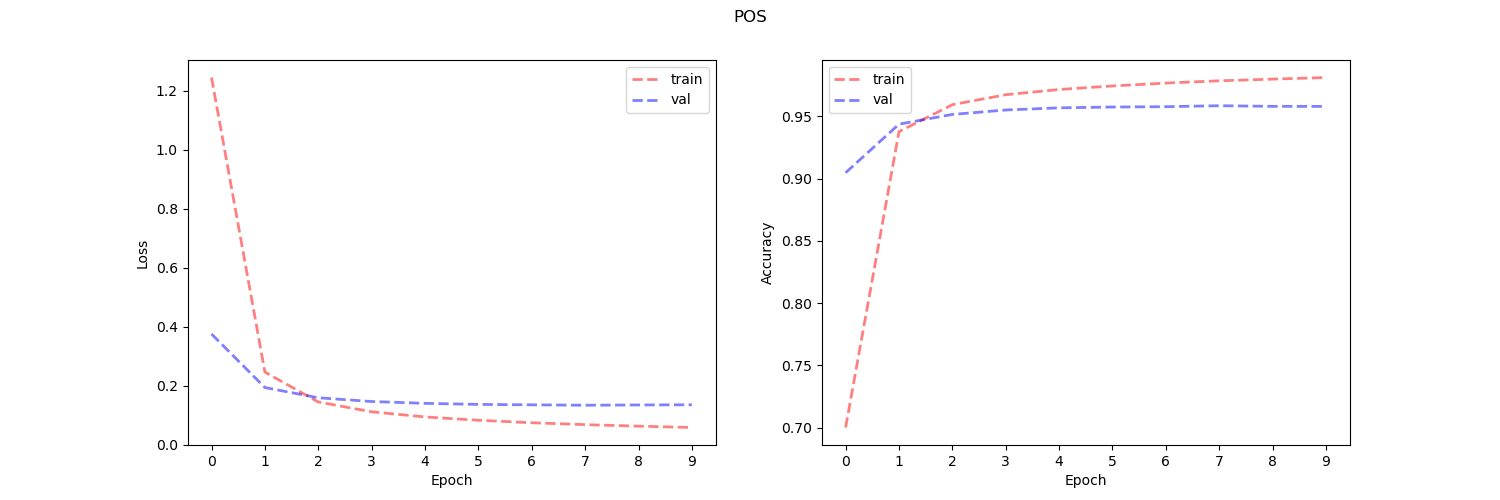
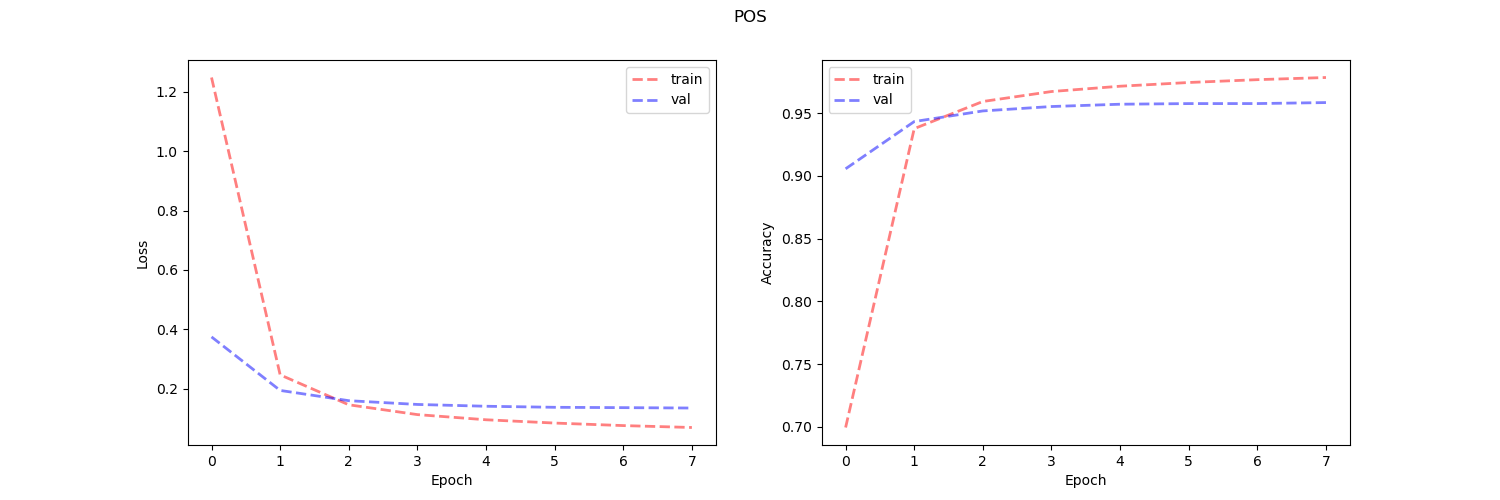
trying to do part 5

diff --git a/tagger1.py b/tagger1.py
@@ -27,17 +27,33 @@ class Tagging_Dataset(Dataset):
 
 
 class tagger(nn.Module):
-    def __init__(self, vocab, embedding_dim, hidden_layer, target_size, dropout_p, pre_trained_embeddings=None,
-                 prefix_vocab=None, suffix_vocab=None, WINDOW_SIZE=5):
+    def __init__(self, vocab, embedding_dim, hidden_layer, target_size, dropout_p, 
+                 pre_trained_embeddings=None, prefix_vocab=None, suffix_vocab=None, 
+                 cnn_vocab=None, char_embedding_dim=30, cnn_window_size=3, cnn_padding_size=2, 
+                 dropout_p_cnn=0.5, WINDOW_SIZE=5):
         super().__init__()
         self.embedding_dim = embedding_dim
         self.vocab = vocab
         self.prefix_vocab = prefix_vocab
         self.suffix_vocab = suffix_vocab
+        self.cnn_vocab = cnn_vocab
         self.word_embeddings = nn.Embedding(len(self.vocab), embedding_dim)
         if prefix_vocab:
             self.prefix_embeddings = nn.Embedding(len(self.prefix_vocab), embedding_dim)
             self.suffix_embeddings = nn.Embedding(len(self.suffix_vocab), embedding_dim)
+        elif cnn_vocab:
+            self.char_embeddings = nn.Embedding(len(self.cnn_vocab), char_embedding_dim, padding_idx=0)
+            self.cnn_layer = nn.Conv2d(in_channels=1, out_channels=max(self.cnn_vocab.stoi.keys(), key=len), 
+                                       kernel_size=(cnn_window_size,char_embedding_dim), 
+                                       padding=(cnn_padding_size,0))
+            conv2d_layer_shape = get_conv2d_layer_shape(self.cnn_layer, (max(self.cnn_vocab.stoi.keys(), key=len), char_embedding_dim))
+            self.char_maxpool_layer = torch.nn.MaxPool2d(kernel_size=(conv2d_layer_shape[0], 1))
+            self.dropout_cnn_layer = torch.nn.Dropout(p=dropout_p_cnn)
+            self.fc_input_dim = (self.WINDOW_SIZE *
+                                 (self.embedding_dim +
+                                  self.cnn_char_num_filters *
+                                  self.maxpool2d_layer_shape[2] *
+                                  self.maxpool2d_layer_shape[3]))
         self.fc1 = nn.Linear(embedding_dim * WINDOW_SIZE, hidden_layer)
         self.fc2 = nn.Linear(hidden_layer, target_size)
         self.activation = nn.Tanh()
@@ -48,12 +64,13 @@ class tagger(nn.Module):
         torch.manual_seed(42)
         if pre_trained_embeddings is not None:
             self.word_embeddings.weight.data.copy_(torch.from_numpy(pre_trained_embeddings))
-        elif prefix_vocab:
-            nn.init.xavier_uniform_(self.prefix_embeddings.weight)
-            nn.init.xavier_uniform_(self.suffix_embeddings.weight)
-            nn.init.xavier_uniform_(self.word_embeddings.weight)
         else:
             nn.init.xavier_uniform_(self.word_embeddings.weight)
+        if prefix_vocab:
+            nn.init.xavier_uniform_(self.prefix_embeddings.weight)
+            nn.init.xavier_uniform_(self.suffix_embeddings.weight)
+        elif cnn_vocab:
+            nn.init.kaiming_uniform_(self.char_embeddings) # check in/out
         nn.init.xavier_uniform_(self.fc1.weight, gain=torch.nn.init.calculate_gain('tanh'))
         nn.init.constant_(self.fc1.bias, 0)
         nn.init.xavier_uniform_(self.fc2.weight)
@@ -66,6 +83,8 @@ class tagger(nn.Module):
             word_emb = self.word_embeddings(windows).view(-1, self.embedding_dim * self.WINDOW_SIZE)
             suffix_emb = self.suffix_embeddings(suffix_window).view(-1, self.embedding_dim * self.WINDOW_SIZE)
             x = prefix_emb + word_emb + suffix_emb
+        elif self.cnn_vocab:
+            x = self.char_embeddings(windows).view(-1, self.embedding_dim * self.WINDOW_SIZE)
         else:
             x = self.word_embeddings(windows).view(-1, self.embedding_dim * self.WINDOW_SIZE)
         x = self.fc1(x)
@@ -106,7 +125,7 @@ def accuracy(pred, tags, mission):
     return corrects, total
 
 
-def epoch_train(model, optimizer, criterion, train_loader, val_loader, mission):
+def epoch_train(model, optimizer, criterion, train_loader, val_loader, mission, grad_clip=0):
     running_loss = 0
     running_corrects, running_total = 0, 0
     model.train()
@@ -117,6 +136,8 @@ def epoch_train(model, optimizer, criterion, train_loader, val_loader, mission):
         running_loss += loss.item()
         loss.backward()
         optimizer.step()
+        if grad_clip > 0:
+            torch.nn.utils.clip_grad_norm_(model.parameters(), max_norm=grad_clip)
 
         pred = torch.argmax(output, 1)
         batch_corrects, batch_total = accuracy(pred, tags, mission)
@@ -188,7 +209,7 @@ def save_test_file(test_data, predictions_labels, save_path=None, seperator=' ')
         f.write("\n")
         
 
-def train(model, optimizer, criterion, nepochs, train_loader, val_loader, mission, return_best_epoch=True, optimize='accuracy'):
+def train(model, optimizer, criterion, nepochs, train_loader, val_loader, mission, scheduler=None, grad_clip=0, return_best_epoch=True, optimize='accuracy'):
     '''Train the model epoch by epoch.
 
     Parameters
@@ -219,7 +240,7 @@ def train(model, optimizer, criterion, nepochs, train_loader, val_loader, missio
     best_val_loss = 9999999
     best_val_accuracy = -9999999
     for e in range(nepochs):
-        loss, acc = epoch_train(model, optimizer, criterion, train_loader, val_loader, mission)
+        loss, acc = epoch_train(model, optimizer, criterion, train_loader, val_loader, mission, grad_clip)
         val_loss, val_acc = evaluate(model, criterion, val_loader, mission)
         train_losses += [loss]
         val_losses += [val_loss]
@@ -235,6 +256,8 @@ def train(model, optimizer, criterion, nepochs, train_loader, val_loader, missio
                 if val_loss < best_val_loss:
                     best_val_loss = val_loss
                     best_model = model
+        if scheduler:
+            scheduler.step()
 
         print("Epoch: {}/{}.. ".format(e + 1, nepochs),
               "Training Loss: {:.3f}.. ".format(train_losses[-1]),
@@ -247,7 +270,7 @@ def train(model, optimizer, criterion, nepochs, train_loader, val_loader, missio
         return train_losses, val_losses, train_accs, val_accs
 
 
-def parameters_search(params_dict, n_eopchs, train_dataset, dev_dataset, vocab, return_best_epoch=True, optimize='accuracy', mission='NER', pre_trained_emb=None, pre_vocab=None, suf_vocab=None):
+def parameters_search(params_dict, n_eopchs, train_dataset, dev_dataset, vocab, return_best_epoch=True, optimize='accuracy', mission='NER', pre_trained_emb=None, pre_vocab=None, suf_vocab=None, cnn_vocab=None):
     '''Exhaustive search over specified parameter values
 
     Parameters
@@ -296,12 +319,21 @@ def parameters_search(params_dict, n_eopchs, train_dataset, dev_dataset, vocab, 
         dev_data_loader = DataLoader(dev_dataset,
                                 batch_size=config['batch_size'], shuffle=True)
         if mission == 'NER':
-            model = tagger(vocab, 50, config['hidden_layer'], len(vocab_labels), config['dropout_p'], pre_trained_emb, prefix_vocab=pre_vocab, suffix_vocab=suf_vocab)
+            model = tagger(vocab, 50, config['hidden_layer'], len(vocab_labels), config['dropout_p'], pre_trained_emb, prefix_vocab=pre_vocab, suffix_vocab=suf_vocab, cnn_vocab=cnn_vocab)
         else:
-            model = tagger(vocab_pos, 50, config['hidden_layer'], len(vocab_labels_pos), config['dropout_p'], pre_trained_emb, prefix_vocab=pre_vocab, suffix_vocab=suf_vocab)
+            model = tagger(vocab_pos, 50, config['hidden_layer'], len(vocab_labels_pos), config['dropout_p'], pre_trained_emb, prefix_vocab=pre_vocab, suffix_vocab=suf_vocab, cnn_vocab=cnn_vocab)
         criterion = nn.CrossEntropyLoss()
-        optimizer = optim.Adam(model.parameters(), lr=config['lr'])
-        train_losses, val_losses, train_accuracy, val_accuracy, best_config_model = train(model, optimizer, criterion, n_eopchs, train_data_loader, dev_data_loader, mission)
+        if cnn_vocab:
+            optimizer = optim.SGD(model.parameters(), lr=config['lr'], momentum=0.9)
+            initial_learning_rate = 0.015 if mission=='NER' else 0.01
+            lambda_lr = lambda epoch: initial_learning_rate/(1+0.05 *epoch)
+            lr_scheduler = torch.optim.lr_scheduler.LambdaLR(optimizer, lr_lambda=lambda_lr)
+            grad_clip = 5
+        else:
+            lr_scheduler = None
+            grad_clip = 0
+            optimizer = optim.Adam(model.parameters(), lr=config['lr'])
+        train_losses, val_losses, train_accuracy, val_accuracy, best_config_model = train(model, optimizer, criterion, n_eopchs, train_data_loader, dev_data_loader, mission, lr_scheduler, grad_clip=grad_clip)
         if optimize=='accuracy':
             best_acc_eopch = np.argmax(val_accuracy)
             if val_accuracy[best_acc_eopch] > best_config_val_accuracy:
@@ -330,12 +362,15 @@ def parameters_search(params_dict, n_eopchs, train_dataset, dev_dataset, vocab, 
 
 print("___________________________________NER__________________________________________________")
 parser = argparse.ArgumentParser(description="NLP tagging task")
+group = parser.add_mutually_exclusive_group()
 parser.add_argument("-p", "--pretrained", action="store_true")
-parser.add_argument("-s", "--subword", action="store_true")
+group.add_argument("-s", "--subword", action="store_true")
+group.add_argument("-c", "--cnn", action="store_true")
 args = parser.parse_args()
 pre_embedding = None
 pre_vocab = None
 suf_vocab = None
+char_vocab = None
 
 train_data = read_data('ner/train', '\t', lower=args.pretrained)
 dev_data = read_data('ner/dev', '\t', lower=args.pretrained)
@@ -348,6 +383,10 @@ if args.pretrained:
 if args.subword:
     print('using subword embedding\n')
     pre_vocab, suf_vocab = create_pre_suf_vocabs(vocab)
+
+if args.cnn:
+    print('using character embedding\n')
+    char_vocab = create_cnn_vocabs(vocab)
 
 
 train_dataset = Tagging_Dataset(data_to_window(vocab, vocab_labels, train_data))
@@ -363,7 +402,7 @@ params_dict = {
 # {'hidden_layer': 130, 'dropout_p': 0.3, 'batch_size': 128, 'lr': 0.0001, 'nepochs': 6}
 best_params_dict = {'hidden_layer': [130], 'dropout_p': [0.3], 'batch_size': [128], 'lr': [1e-4]}
 print('searching parameters...\n')
-best_tagger = parameters_search(best_params_dict, 6, train_dataset, dev_dataset, vocab, mission='NER', pre_trained_emb=pre_embedding, pre_vocab=pre_vocab, suf_vocab=suf_vocab)
+best_tagger = parameters_search(best_params_dict, 8, train_dataset, dev_dataset, vocab, mission='NER', pre_trained_emb=pre_embedding, pre_vocab=pre_vocab, suf_vocab=suf_vocab, cnn_vocab=char_vocab)
 plot_results(best_tagger['train_losses'], best_tagger['val_losses'],\
     best_tagger['train_accuracy'], best_tagger['val_accuracy'], main_title=f'NER_P-{args.pretrained}_S-{args.subword}')
 print(f'best parameters:\n{best_tagger["best_config"]}')
@@ -379,14 +418,15 @@ print("___________________________________POS___________________________________
 train_data_pos = read_data('pos/train', ' ', lower=args.pretrained)
 dev_data_pos = read_data('pos/dev', ' ', lower=args.pretrained)
 vocab_pos, vocab_labels_pos = create_vocabs(train_data_pos)
-
+pre_vocab_pos = None
+suf_vocab_pos = None
 if args.pretrained:
     print('using pre-trained embedding\n')
     vocab_pos, pre_embedding = use_pretrained('vocab.txt', 'wordVectors.txt')
 
 if args.subword:
     print('using subword embedding\n')
-    pre_vocab_pos, suf_vocab_pos = create_pre_suf_vocabs(train_data_pos)
+    pre_vocab_pos, suf_vocab_pos = create_pre_suf_vocabs(vocab_pos)
 
 train_dataset_pos = Tagging_Dataset(data_to_window(vocab_pos, vocab_labels_pos, train_data_pos))
 dev_dataset_pos = Tagging_Dataset(data_to_window(vocab_pos, vocab_labels_pos, dev_data_pos))
@@ -403,7 +443,7 @@ best_pos_params_dict = {'hidden_layer': [90], 'dropout_p': [0.2], 'batch_size': 
 print('searching parameters...\n')
 best_tagger_pos = parameters_search(best_pos_params_dict, 8, train_dataset_pos, dev_dataset_pos, vocab_pos, mission='POS', pre_trained_emb=pre_embedding, pre_vocab=pre_vocab_pos, suf_vocab=suf_vocab_pos)
 plot_results(best_tagger_pos['train_losses'], best_tagger_pos['val_losses'],\
-    best_tagger_pos['train_accuracy'], best_tagger_pos['val_accuracy'], main_title='POS')
+    best_tagger_pos['train_accuracy'], best_tagger_pos['val_accuracy'], main_title=f'POS_P-{args.pretrained}_S-{args.subword}')
 print(f'best parameters:\n{best_tagger_pos["best_config"]}')
 
 # saving test predictions

diff --git a/utility.py b/utility.py
@@ -1,3 +1,4 @@
+import math
 import numpy as np
 from matplotlib import pyplot as plt
 
@@ -210,13 +211,11 @@ def create_pre_suf_vocabs(vocab):
     suf_vocab.build_vocabulary(vocab.stoi.keys())
     return pre_vocab, suf_vocab
 
-def create_pre_suf_vocabs2(train_data):
-    sentences, _ = zip(*train_data)
-    pre_vocab = Vocabulary(sub_word='prefix')
-    suf_vocab = Vocabulary(sub_word='suffix')
-    pre_vocab.build_vocabulary(sentences)
-    suf_vocab.build_vocabulary(sentences)
-    return pre_vocab, suf_vocab
+def create_cnn_vocabs(vocab):
+    characters = list(set(list((''.join(vocab.stoi.keys())))))
+    cnn_vocab = Vocabulary()
+    cnn_vocab.build_vocabulary(characters)
+    return cnn_vocab
 
 def check_if_a_number(word, vocab):
 
@@ -237,3 +236,37 @@ def check_if_a_number(word, vocab):
         return "NNNUMMM"
 
     return None
+
+
+def get_conv2d_layer_shape(layer, in_shape):
+    """Return the shape of torch.nn.Conv2d layer.
+
+    Parameters
+    ----------
+    layer: The Conv2d layer.
+    in_shape: The input shape.
+
+    returns
+    -------
+    The shape of the Conv2d layer
+    """
+    H_in, W_in = in_shape
+
+    kernel_size = (layer.kernel_size, layer.kernel_size) if isinstance(layer.kernel_size, int) else layer.kernel_size
+    dilation = (layer.dilation, layer.dilation) if isinstance(layer.dilation, int) else layer.dilation
+    stride = (layer.stride, layer.stride) if isinstance(layer.stride, int) else layer.stride
+
+    if isinstance(layer.padding, str):
+        if layer.padding == "valid":
+            H_out = math.floor((H_in + dilation[0] * (kernel_size[0]-1) - 1) / stride[0] + 1)
+            W_out = math.floor((W_in + dilation[1] * (kernel_size[1]-1) - 1) / stride[1] + 1)
+        elif layer.padding == "same":
+            H_out = H_in
+            W_out = W_in
+    else:
+        padding = (layer.padding, layer.padding) if isinstance(layer.padding, int) else layer.padding
+
+        H_out = math.floor((H_in + 2*padding[0] - dilation[0] * (kernel_size[0]-1) - 1) / stride[0] + 1)
+        W_out = math.floor((W_in + 2*padding[1] - dilation[1] * (kernel_size[1]-1) - 1) / stride[1] + 1)
+
+    return (H_out, W_out)
